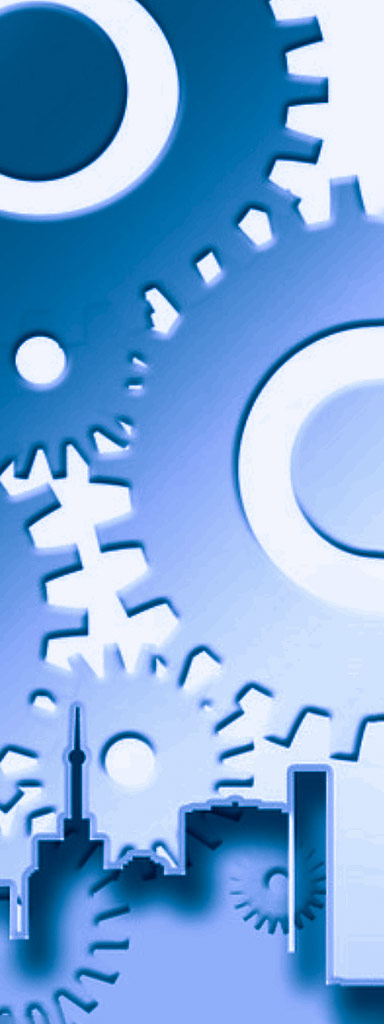
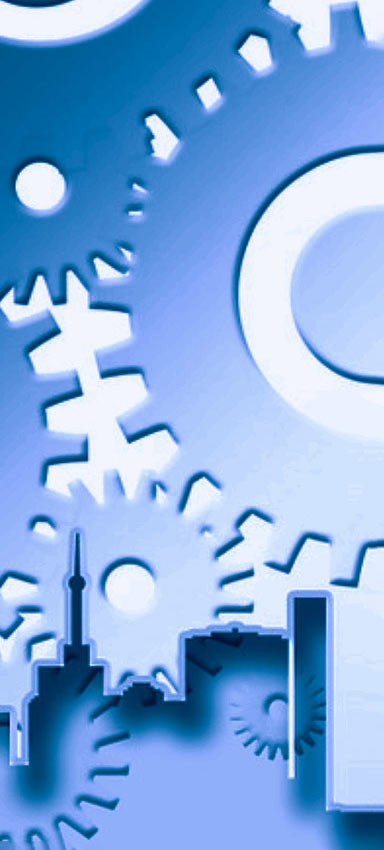
LoginFormular auf FormControl/Validators umgestellt

diff --git a/src/app/person-form/person-form.component.html b/src/app/person-form/person-form.component.html
@@ -7,7 +7,7 @@
           <div class="card card-registration ">
             <div class="row g-0">
               <div class="col-xl-6 d-none d-xl-block">
-                <img src="../../assets/images/kurs_person_anlegen.jpg" height="800" width="533" alt="Person anlegen"/>
+                <img src="../../assets/images/kurs_person_anlegen.jpg" height="850" width="384" alt="Person anlegen"/>
               </div>
               <div class="col-xl-6">
                 <div class="card-body p-md-5 text-black">
@@ -18,21 +18,20 @@
                   <div class="row">
                     <div class="col-md-6 mb-4">
                       <div class="form-outline">
-                        <small class="text-danger" *ngIf="!anrede.dirty && anrede.touched"> Bitte eine Anrde auswählen</small>
+                        <label class="form-label" for="anrede">Anrede</label>
                         <select  id="anrede" [(ngModel)]="person.anrede" name="anrede" required
                                class="form-control form-control-lg" #anrede="ngModel" >
                         <option value="Herr">Herr</option>
                         <option value="Frau">Frau</option>
                         <option value="Divers">Divers</option>
                         </select>
-                        <label class="form-label" for="anrede">Anrede</label>
                       </div>
                     </div>
                     <div class="col-md-6 mb-4">
                       <div class="form-outline">
+                        <label class="form-label" for="titel">Titel</label>
                         <input type="text" id="titel" [(ngModel)]="person.titel" name="titel"
                                class="form-control form-control-lg" #titel="ngModel"/>
-                        <label class="form-label" for="titel">Titel</label>
                       </div>
                     </div>
                   </div>
@@ -40,58 +39,60 @@
                   <div class="row">
                     <div class="col-md-6 mb-4">
                       <div class="form-outline">
-                        <small class="text-danger" *ngIf="vorname.invalid && vorname.touched"> Vorname muss mindestens Zwei Buchstaben enthalten aber nur Buchstaben</small>
-                        <input type="text" id="form3Example1m" required minlength="2" pattern="[a-zA-ZäÄüÜßöÖ]{2,}[a-z A-ZäÄüÜßöÖ]*" [(ngModel)]="person.vorname"
+                        <label class="form-label" for="vorname">Vorname</label>
+                        <input type="text" id="vorname" required minlength="2" pattern="[a-zA-ZäÄüÜßöÖ]{2,}[a-z A-ZäÄüÜßöÖ]*" [(ngModel)]="person.vorname"
                                class="form-control form-control-lg" name="vorname" #vorname="ngModel"/>
-                        <label class="form-label" for="form3Example1m">Vorname</label>
+                        <small class="text-danger" *ngIf="vorname.invalid && vorname.touched">Mindestens 2 Buchstaben eingeben.</small>
                       </div>
                     </div>
+
                     <div class="col-md-6 mb-4">
                       <div class="form-outline">
-                        <small class="text-danger" *ngIf="name.invalid && name.touched"> Nachname muss mindestens Zwei Buchstaben enthalten aber nur Buchstaben</small>
-                        <input type="text" id="form3Example1n" required minlength="2" pattern="[a-zA-ZäÄüÜßöÖ]{2,}[a-z A-ZäÄüÜßöÖ]*" [(ngModel)]="person.name" class="form-control form-control-lg" name="name" #name="ngModel"/>
-                        <label class="form-label" for="form3Example1n">Nachname</label>
+                        <label class="form-label" for="nachname">Nachname</label>
+                        <input type="text" id="nachname" required minlength="2" pattern="[a-zA-ZäÄüÜßöÖ]{2,}[a-z A-ZäÄüÜßöÖ]*" [(ngModel)]="person.name"
+                               class="form-control form-control-lg" name="name" #name="ngModel"/>
+                        <small class="text-danger" *ngIf="name.invalid && name.touched">Mindestens 2 Buchstaben eingeben.</small>
                       </div>
                     </div>
                   </div>
 
                   <div class="form-outline mb-4">
-                    <small class="text-danger" *ngIf="strasse.invalid && strasse.touched"> Strasse muss mindestens threi Bustaben und mindestens ein Nummer enthalten</small>
-                    <input type="text" id="form3Example8" required minlength="4" pattern="[a-zA-ZäÄüÜßöÖ]{3,}.*[0-9]{1,}" [(ngModel)]="person.strasse"
+                    <label class="form-label" for="strasse">Strasse + Hausnummer</label>
+                    <input type="text" id="strasse" required minlength="3" pattern="[a-zA-ZäÄüÜßöÖ]{3,}[a-z A-ZäÄüÜßöÖ]*" [(ngModel)]="person.strasse"
                            #strasse="ngModel" name="strasse" class="form-control form-control-lg"/>
-                    <label class="form-label" for="form3Example8">Strasse + Hausnummer</label>
+                    <small class="text-danger" *ngIf="strasse.invalid && strasse.dirty">Mindestens 3 Buchstaben eingeben.</small>
                   </div>
 
                   <div class="row">
                     <div class="col-md-6 mb-4">
                       <div class="form-outline">
-                        <small class="text-danger" *ngIf="plz.invalid && plz.touched"> Postletzahl muss fünf digit enthalten</small>
-                        <input type="text" id="plz" required minlength="5" pattern="[0-9]{5}" [(ngModel)]="person.plz" #plz="ngModel" name="plz"
-                               class="form-control form-control-lg"/>
                         <label class="form-label" for="plz">PLZ</label>
+                        <input type="text" id="plz" required minlength="5" pattern="[a-z A-ZäÄüÜßöÖ-]*[0-9]{5}" [(ngModel)]="person.plz" #plz="ngModel" name="plz"
+                               class="form-control form-control-lg"/>
+                        <small class="text-danger" *ngIf="plz.invalid && plz.dirty">Bitte 5-stellige Postleitzahl eingeben.</small>
                       </div>
                     </div>
                     <div class="col-md-6 mb-4">
                       <div class="form-outline">
-                        <small class="text-danger" *ngIf="ort.invalid && ort.touched"> Ort muss mindestens drei Buchstaben enthalten</small>
+                        <label class="form-label" for="ort">Ort</label>
                         <input type="text" id="ort" minlength="3" required pattern="[a-zA-ZäÄüÜßöÖ]{3,}.*"[(ngModel)]="person.ort" #ort="ngModel" name="ort"
                                class="form-control form-control-lg"/>
-                        <label class="form-label" for="ort">Ort</label>
+                        <small class="text-danger" *ngIf="ort.invalid && ort.dirty">Mindestens 3 Buchstaben eingeben.</small>
                       </div>
                     </div>
                   </div>
 
                   <div class="form-outline mb-4">
-                    <small class="text-danger" *ngIf="email.invalid && email.touched"> Richtiges Email enigeben</small>
-                    <input type="text" id="form3Example97"  required pattern="^[a-zA-Z0-9.!#$%&'*+/=?^_`{|}~-]+@((\[[0-9]{1,3}\.[0-9]{1,3}\.[0-9]{1,3}\.[0-9]{1,3}\])|(([a-zA-Z\-0-9]+\.)+[a-zA-Z]{2,}))$" [(ngModel)]="person.email"
+                    <label class="form-label" for="email">Email-Adresse</label>
+                    <input type="text" id="email"  required pattern="^[a-zA-Z0-9.!#$%&'*+/=?^_`{|}~-]+@((\[[0-9]{1,3}\.[0-9]{1,3}\.[0-9]{1,3}\.[0-9]{1,3}\])|(([a-zA-Z\-0-9]+\.)+[a-zA-Z]{2,}))$" [(ngModel)]="person.email"
                            #email="ngModel" name="email" class="form-control form-control-lg"/>
-                    <label class="form-label" for="form3Example97">Email-Adresse</label>
+                    <small class="text-danger" *ngIf="email.invalid && email.touched">Bitte eine gültige Email-Adresse eingeben.</small>
                   </div>
                   <div class="form-outline mb-4">
-                    <small class="text-danger" *ngIf="telefon.invalid && telefon.dirty"> Telefon nummer mindestens zehn nummer(ohne sonderzeichen und leerstellen) enthalten</small>
-                    <input type="text" id="telefon" minlength="10" pattern="[0-9]{10,}" [(ngModel)]="person.telefon"
-                           #telefon="ngModel" name="telefon" class="form-control form-control-lg"/>
                     <label class="form-label" for="telefon">Telefon</label>
+                    <input type="text" id="telefon" minlength="7" pattern="[- +()0-9]+{7,}" [(ngModel)]="person.telefon"
+                           #telefon="ngModel" name="telefon" class="form-control form-control-lg"/>
+                    <small class="text-danger" *ngIf="telefon.invalid && telefon.dirty">Telefon nummer mindestens zehn nummer(ohne sonderzeichen und leerstellen) enthalten</small>
                   </div>
 
                   <div *ngIf="person.id==undefined;else updatingButton" class="d-flex justify-content-end pt-3">
@@ -110,7 +111,6 @@
                   </div>
                   <ng-template #updatingButton>
                     <div class="d-flex justify-content-end pt-3">
-
                       <button type="submit" class="btn btn-success btn-lg ms-2" [disabled]="PersonForm.invalid">
                               Update Person
                       </button>

diff --git a/src/app/user-login/user-login.component.html b/src/app/user-login/user-login.component.html
@@ -1,34 +1,71 @@
-<div class="col-md-12">
+<div class="col-lg-12">
   <div class="card card-container">
-    <img id="profile-img" src="../../assets/images/logo_login.png" height="192" width="192" class="profile-img-card" alt="Bitte einloggen um die Kurse zu verwalten."/>
-    <form *ngIf="!isLoggedIn" name="form" (ngSubmit)="f.form.valid && onSubmit()" #f="ngForm" novalidate>
-      <div class="form-group">
-        <label>Username</label>
-        <input type="text" class="form-control" name="username" [(ngModel)]="form.username" required #username="ngModel"/>
-        <div class="alert alert-danger" role="alert" *ngIf="username.errors && f.submitted">
-          Bitte Benutzernamen eingeben!
+    <div class="card-header">
+      <img id="profile-img" src="../../assets/images/logo_login.png" height="192" width="192" class="profile-img-card"
+           alt="Bitte einloggen um die Kurse zu verwalten."/>
+      <p class="text-center">Login online Kursverwaltung</p>
+    </div>
+
+    <div class="card-body">
+      <form [formGroup]="loginForm" *ngIf="!isLoggedIn" name="loginForm" (ngSubmit)="onSubmit()">
+
+        <label><sup class="text-danger">*</sup> Benutzername</label>
+        <input formControlName="username" type="text" class="form-control"/>
+        <ng-container *ngIf="loginForm.controls['username'] as username">
+          <ng-container *ngIf="username?.dirty || username?.touched">
+            <ng-container *ngIf="username?.errors as errors">
+              <div class="alert alert-danger" *ngIf="errors['required']">
+                Der Benutzername ist ein Pflichtfeld!
+              </div>
+              <div class="alert alert-danger" *ngIf="errors['minlength']">
+                Mindestens {{errors['minlength'].requiredLength}} Zeichen eingeben!
+              </div>
+            </ng-container>
+          </ng-container>
+        </ng-container>
+
+        <label><sup class="text-danger">*</sup> Passwort</label>
+        <input formControlName="password" type="password" class="form-control"/>
+        <ng-container *ngIf="loginForm.controls['password'] as password">
+          <ng-container *ngIf="password?.dirty || password?.touched">
+            <ng-container *ngIf="password?.errors as errors">
+              <div class="alert alert-danger" *ngIf="errors['required']">
+                Das Passwort ist ein Pflichtfeld!
+              </div>
+              <div class="alert alert-danger" *ngIf="errors['minlength']">
+                Mindestens {{errors['minlength'].requiredLength}} Zeichen eingeben!
+              </div>
+            </ng-container>
+          </ng-container>
+        </ng-container>
+
+        <div class="d-grid gap-2">
+          <br>
+          <button [disabled]="(!loginForm.valid && (loginForm.dirty || loginForm.touched))"
+                  class="btn btn-primary" type="submit">Login
+          </button>
         </div>
-      </div>
-      <div class="form-group">
-        <label>Password</label>
-        <input type="password" class="form-control" name="password" [(ngModel)]="form.password" required minlength="6" #password="ngModel"/>
-        <div class="alert alert-danger" role="alert" *ngIf="password.errors && f.submitted">
-          <div *ngIf="password.errors['required']">Bitte Passwort eingeben!</div>
-          <div *ngIf="password.errors['minlength']">Passwort muss mindestens 6 Zeichen haben!</div>
-        </div>
-      </div>
-      <div class="form-group">
-        <button class="btn btn-primary btn-block">Login</button>
-      </div>
-      <div class="form-group">
-        <div class="alert alert-danger" role="alert" *ngIf="f.submitted && isLoginFailed">
+
+        <div class="alert alert-danger" role="alert" *ngIf="isLoginFailed">
           Login fehlgeschlagen: {{ errorMessage }}
         </div>
-      </div>
-    </form>
 
-    <div class="alert alert-success" *ngIf="isLoggedIn">
-      Sie sind jetzt eingeloggt!
+      </form>
+
+      <div class="alert alert-success text-center" *ngIf="isLoggedIn">
+        Sie sind jetzt eingeloggt!
+      </div>
+
     </div>
+
+    <div class="card-footer" *ngIf="!isLoggedIn">
+      <sup class="text-danger">*</sup> Pflichtfelder
+    </div>
+
+    <div class="card-footer text-center" *ngIf="isLoggedIn">
+      Enjoy!
+    </div>
+
+
   </div>
 </div>

diff --git a/src/app/user-login/user-login.component.ts b/src/app/user-login/user-login.component.ts
@@ -1,6 +1,7 @@
 import { Component, OnInit } from '@angular/core';
 import { AuthService } from '../_services/auth.service';
 import { TokenStorageService } from '../_services/token-storage.service';
+import {FormControl, FormGroup, Validators} from "@angular/forms";
 
 @Component({
   selector: 'app-user-login',
@@ -8,16 +9,25 @@ import { TokenStorageService } from '../_services/token-storage.service';
   styleUrls: ['./user-login.component.css']
 })
 export class UserLoginComponent implements OnInit {
-  form: any = {
-    username: null,
-    password: null
-  };
   isLoggedIn = false;
   isLoginFailed = false;
   errorMessage = '';
   roles: string[] = [];
 
-  constructor(private authService: AuthService, private tokenStorage: TokenStorageService) { }
+  public loginForm: FormGroup = new FormGroup({
+    username: new FormControl('', [
+      Validators.required,
+      Validators.minLength(4)
+    ]),
+    password: new FormControl('', [
+      Validators.required,
+      Validators.minLength(6)
+    ])
+  });
+
+  constructor(private authService: AuthService, private tokenStorage: TokenStorageService) {
+    this.loginForm.valueChanges.subscribe(console.log);
+  }
 
   ngOnInit(): void {
     if (this.tokenStorage.getToken()) {
@@ -27,13 +37,13 @@ export class UserLoginComponent implements OnInit {
   }
 
   onSubmit(): void {
-    const { username, password } = this.form;
+    const username = this.loginForm.controls['username'].value;
+    const password = this.loginForm.controls['password'].value;
 
     this.authService.login(username, password).subscribe({
       next: data => {
         this.tokenStorage.saveToken(data.accessToken);
         this.tokenStorage.saveUser(data);
-
         this.isLoginFailed = false;
         this.isLoggedIn = true;
         this.roles = this.tokenStorage.getUser().roles;

diff --git a/src/app/person-form/person-form.component.ts b/src/app/person-form/person-form.component.ts
@@ -2,6 +2,7 @@ import { Component } from '@angular/core';
 import {Person} from "../_shared/Person";
 import {PersonStorageService} from "../_services/person-storage.service";
 import {Router} from "@angular/router";
+import {FormControl, FormGroup, Validators} from "@angular/forms";
 
 @Component({
   selector: 'app-person-form',
@@ -20,12 +21,17 @@ export class PersonFormComponent {
   }
   ngOnInit(){
   }
+  public personForm: FormGroup = new FormGroup({
+    vorname: new FormControl('', [Validators.required, Validators.minLength(2)]),
+    name: new FormControl('', [Validators.required, Validators.minLength(2)]),
+    email: new FormControl('', [Validators.required, Validators.email])
+  });
   personNeuUpdate(){
     if(this.service.getPersonEntity().id==undefined){
     let response=this.service.addPerson(this.person);
     response.subscribe((data)=>{
       this.return=data
-      alert('Neu Person mit der Id '+this.return.id+' erfolgreichwurde erfolgreich erzeugt.')
+      alert('Neu Person mit der Id '+this.return.id+' wurde erfolgreich erfolgreich erzeugt.')
     })
       this.service.setter(this.emptyPerson);
   }else{

diff --git a/src/app/person-list/person-list.component.html b/src/app/person-list/person-list.component.html
@@ -16,13 +16,13 @@
 
     <table class="table table-striped">
       <thead>
-      <th>Id</th>
+      <th>&nbsp;#</th>
       <th>Anrede</th>
       <th>Titel</th>
       <th>Vorname</th>
       <th>Name</th>
-      <th>Email</th>
-      <th>Telefon</th>
+      <th>Email / Telefon</th>
+      <th>Adresse</th>
       <th>Aktion</th>
       </thead>
       <tbody>
@@ -32,8 +32,8 @@
         <td>{{person.titel}}</td>
         <td>{{person.vorname}}</td>
         <td>{{person.name}}</td>
-        <td>{{person.email}}</td>
-        <td>{{person.telefon}}</td>
+        <td>{{person.email}}<br>{{person.telefon}}</td>
+        <td>{{person.plz}}&nbsp;{{person.ort}}<br>{{person.strasse}}</td>
         <td>
           <button class="btn btn-sm btn-info" (click)="details(person)">
             <i class="fa fa-search"></i> Details

diff --git a/src/app/app.module.ts b/src/app/app.module.ts
@@ -2,6 +2,7 @@ import {NgModule} from '@angular/core';
 import {BrowserModule} from '@angular/platform-browser';
 import {HttpClientModule} from "@angular/common/http";
 import {FormsModule} from "@angular/forms";
+import {ReactiveFormsModule} from "@angular/forms";
 import {Ng2SearchPipeModule} from "ng2-search-filter";
 
 import {AppRoutingModule} from "./app-routing.module.";
@@ -52,6 +53,7 @@ import {KursZuordnungComponent} from './kurs-zuordnung/kurs-zuordnung.component'
     HttpClientModule,
     AppRoutingModule,
     FormsModule,
+    ReactiveFormsModule,
     Ng2SearchPipeModule
   ],
   providers: [authInterceptorProviders],

diff --git a/src/app/kurs-form/kurs-form.component.html b/src/app/kurs-form/kurs-form.component.html
@@ -6,7 +6,7 @@
           <div class="card card-registration ">
             <div class="row g-0">
               <div class="col-xl-6 d-none d-xl-block">
-                <img src="../../assets/images/kurs_person_anlegen.jpg" height="800" width="533" alt="Kurs anlegen"/>
+                <img src="../../assets/images/kurs_person_anlegen.jpg" height="850" width="384" alt="Kurs anlegen"/>
               </div>
               <div class="col-xl-6">
                 <div class="card-body p-md-5 text-black">

diff --git a/src/app/kurs-list/kurs-list.component.html b/src/app/kurs-list/kurs-list.component.html
@@ -16,7 +16,7 @@
 
       <table class="table table-striped">
         <thead>
-        <th>Id</th>
+        <th>&nbsp;#</th>
         <th>Kursname</th>
         <th>Startdatum</th>
         <th>Enddatum</th>

diff --git a/src/environments/environment.ts b/src/environments/environment.ts
@@ -3,7 +3,7 @@
 // The list of file replacements can be found in `angular.json`.
 
 export const environment = {
-  production: false
+  production: true
 };
 
 /*
